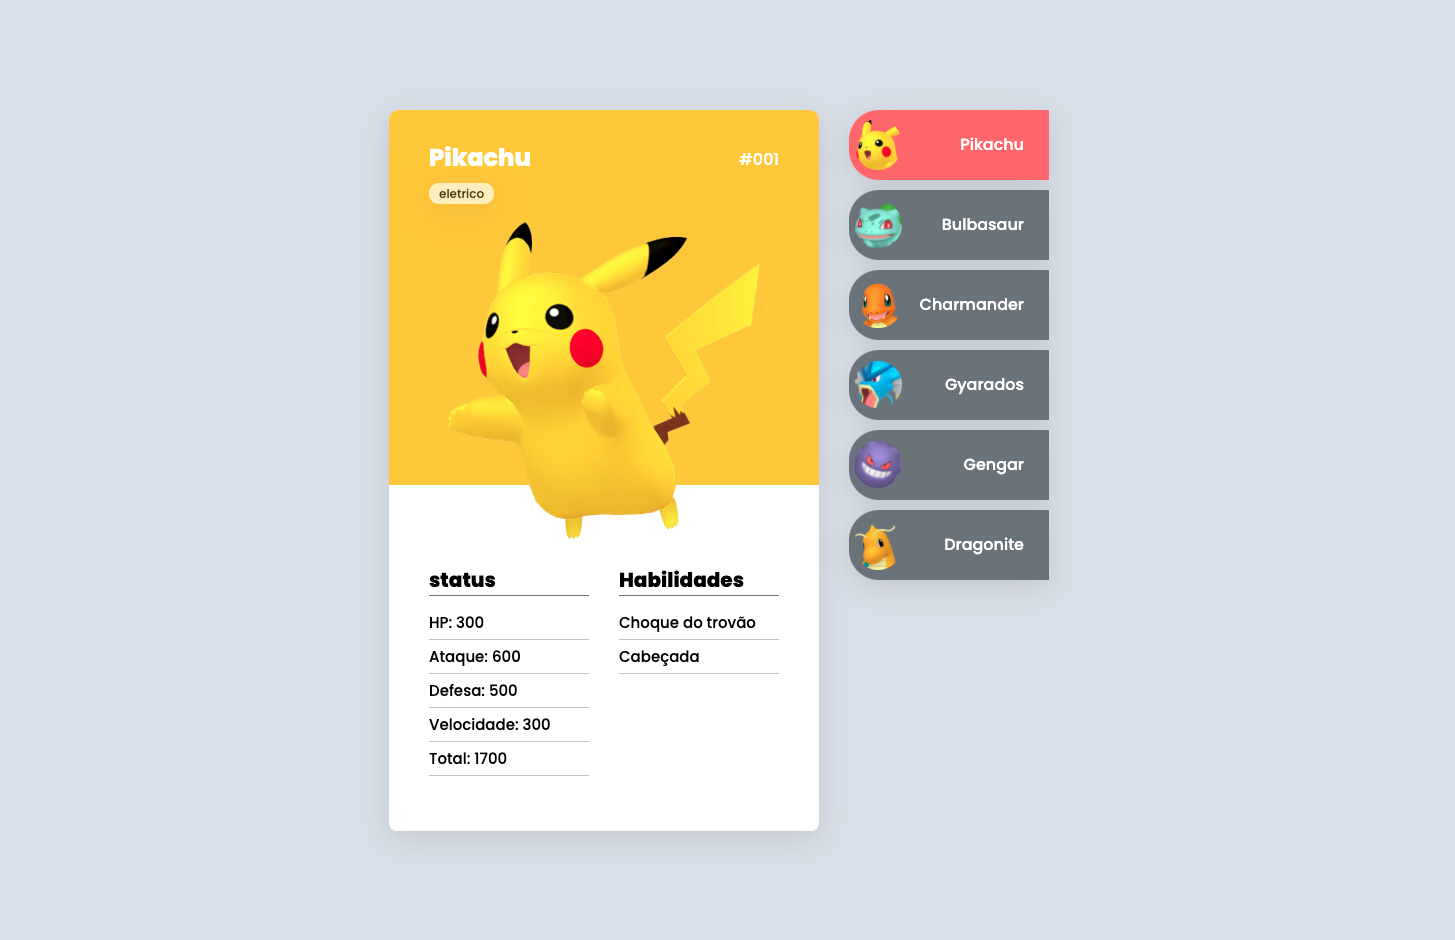
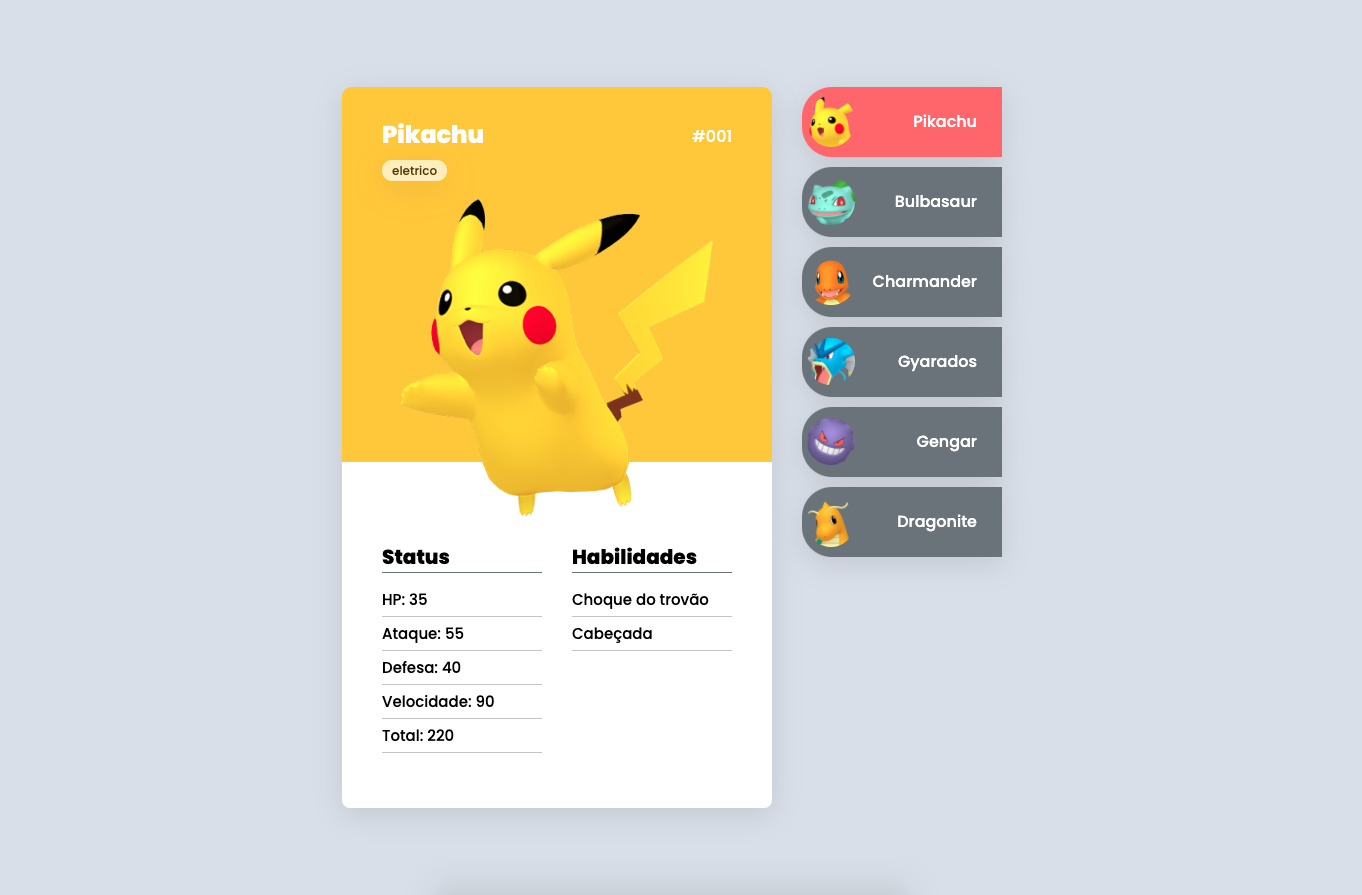
Up img

diff --git a/README.md b/README.md
@@ -11,6 +11,8 @@ Este projeto foi desenvolvido com as seguintes tecnologias:
 - CSS
 - JavaScript
 
+- Informações de status retiradas do site [pokemondb.net](https://pokemondb.net/pokedex/pikachu)
+
 <h5 align="center"><a href="https://rakelmm.github.io/pokedex/">ACESSE AQUI O PROJETO FINAL</a></h5>
 
 <br>
